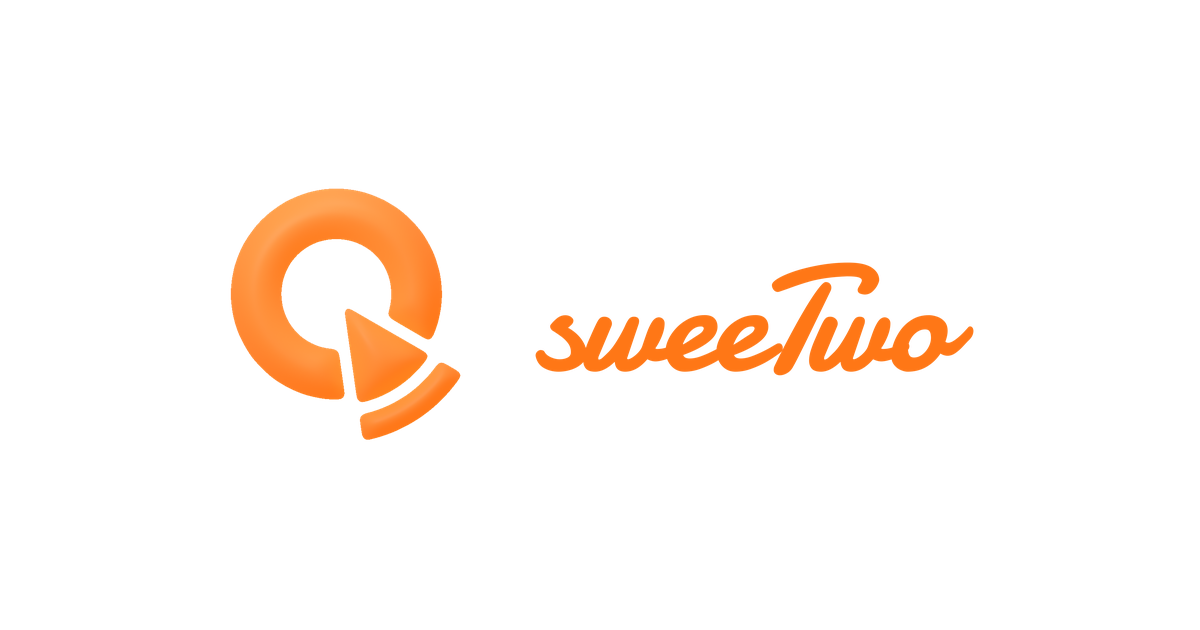
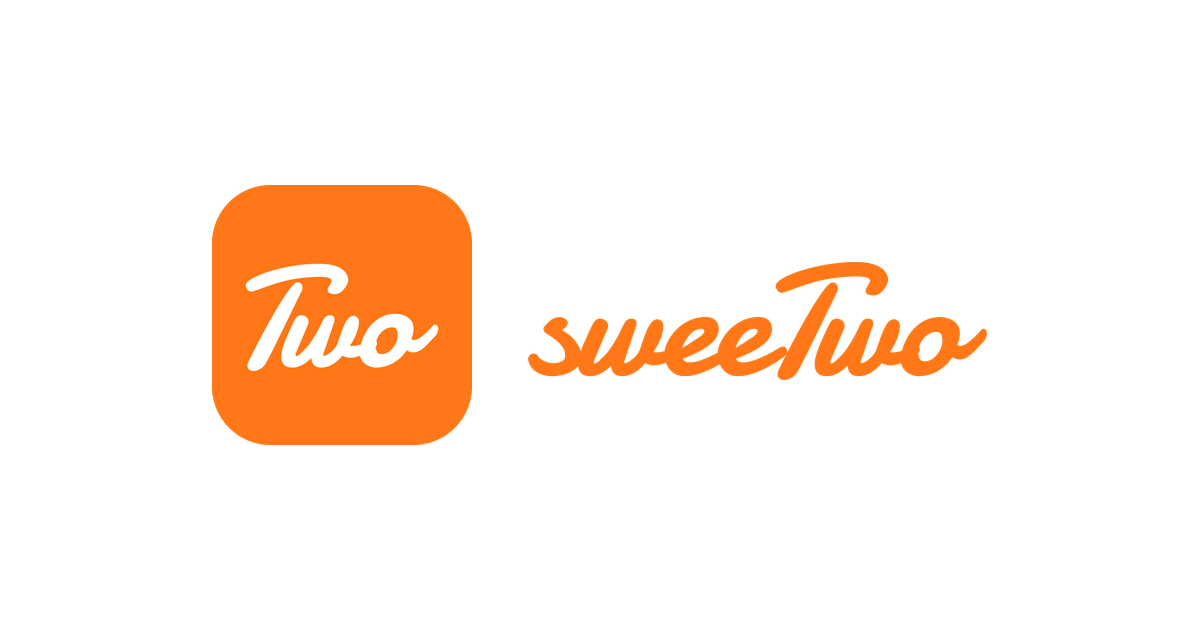
feat(brand): 심볼, 공유 이미지, 랜딩도 ‘Two’로 + 파이 차트 생성기 지움 + spec, design 갱신
- two.py가 symbol.png, symbol.svg, 사이트 og.png도 만듦(오렌지 둥근 사각 Two, og는 아이콘 + 워드마크)
- build.py, geom.py, blender_scene.py 지움
- .cjs 스크립트는 require 허용(eslint)
- docs: spec 04, 28, Brand.md, DESIGN.md, DEV_GUIDE

Claude-Session: https://claude.ai/code/session_011XUPzQwUTy2QBAmKAmrj3h

Changed region(s): [[0.1542, 0.2714, 0.4008, 0.7238], [0.4317, 0.4222, 0.8325, 0.6032]]

diff --git a/scripts/brand-icons/two.py b/scripts/brand-icons/two.py
@@ -1,7 +1,7 @@
 """앱 아이콘 ‘Two’(2026-11-06): 브랜드 오렌지 바탕 + 흰 워드마크 ‘Two’(logo-cherry.svg 뒤 세 글자). 파이 차트 앱 아이콘을 바꿈.
 
 python3 scripts/brand-icons/two.py   (pillow, node + playwright 필요)
-만드는 것: app-icon.png, apple-touch-icon.png, app-icon-macos.png, favicon-32/48.png(디자인 시스템 Brand),
+만드는 것: symbol.png(512, 둥근 사각 앱 아이콘, 모서리 투명)와 symbol.svg(같은 그림 벡터), og.png(공유 이미지), app-icon.png, apple-touch-icon.png, app-icon-macos.png, favicon-32/48.png(디자인 시스템 Brand),
 데스크톱 build/icon.png와 트레이, iOS AppIcon, Android 런처(적응형 전경 + 바탕 색, 예전 방식 정사각·원형), 사이트·모바일 파비콘.
 글자 크기는 아래 FRAC(캔버스 폭 대비 Two 폭). 바꾸면 docs/spec/04-brand.md ‘앱 아이콘’도 같이 고침.
 """
@@ -15,6 +15,7 @@ BRAND = (0xFF, 0x77, 0x16, 255)
 FRAC = 0.74          # 정사각 앱 아이콘 안 Two 폭
 FG_FRAC = 0.48       # Android 적응형 전경(108dp 캔버스, 안전 영역 66dp 원) 안 Two 폭
 MASTER = os.path.join(HERE, 'two-master.png')
+WORDMARK = os.path.join(HERE, 'wordmark-master.png')
 
 def p(*a): return os.path.join(ROOT, *a)
 
@@ -37,8 +38,8 @@ def tile(size, frac=FRAC, bg=BRAND, radius=0):
     return c
 
 def main():
-    if not os.path.exists(MASTER) or '--render' in sys.argv:
-        subprocess.run(['node', os.path.join(HERE, 'render-two.cjs'), MASTER], check=True, cwd=p('apps/mobile'))
+    if not os.path.exists(MASTER) or not os.path.exists(WORDMARK) or '--render' in sys.argv:
+        subprocess.run(['node', os.path.join(HERE, 'render-two.cjs'), MASTER, '--wordmark', WORDMARK], check=True, cwd=p('apps/mobile'))
     icon = tile(1024).convert('RGB')
     icon.save(os.path.join(B, 'app-icon.png'), optimize=True)
     icon.save(p('apps/desktop/build/icon.png'), optimize=True)
@@ -72,5 +73,33 @@ def main():
     open(f'{res}/values/ic_launcher_background.xml', 'w').write(
         '<?xml version="1.0" encoding="utf-8"?>\n<resources>\n    <!-- 앱 아이콘 바탕: 브랜드 오렌지(2026-11-06 ‘Two’ 아이콘) -->\n    <color name="ic_launcher_background">#FF7716</color>\n</resources>\n')
 
+def symbol_svg():
+    # 둥근 사각(모서리 22.5%) 오렌지 + 흰 Two(워드마크 path 그대로). viewBox 1024
+    import re
+    src = open(p('packages/ui/src/assets/brand/logo-cherry.svg')).read()
+    paths = re.findall(r'<path d="([^"]+)"', src)[4:7]
+    m = Image.open(MASTER); bw, bh = m.crop(m.getbbox()).size
+    vb = (3150, -1500, 2850, 1620)   # render-two.cjs와 같은 범위
+    w = 1024 * FRAC; k = w / vb[2] * (Image.open(MASTER).width / bw)  # 글자 실제 폭이 FRAC가 되게
+    gw = vb[2] * k; gh = vb[3] * k
+    x = (1024 - gw) / 2; y = (1024 - gh) / 2 + 10
+    g = ''.join(f'<path d="{d}"/>' for d in paths)
+    return (f'<svg xmlns="http://www.w3.org/2000/svg" viewBox="0 0 1024 1024"><title>sweeTwo</title>'
+            f'<rect width="1024" height="1024" rx="230" fill="#FF7716"/>'
+            f'<g transform="translate({x:.1f} {y:.1f}) scale({k:.5f}) translate({-vb[0]} {-vb[1]})" fill="#fff" stroke="#fff" stroke-width="18" stroke-linejoin="round">{g}</g></svg>')
+
+def extras():
+    tile(512, radius=115).save(os.path.join(B, 'symbol.png'), optimize=True)
+    open(os.path.join(B, 'symbol.svg'), 'w').write(symbol_svg())
+    # 공유 이미지 1200×630: 흰 바탕, 왼쪽 앱 아이콘(둥근 사각 260) + 오른쪽 워드마크
+    og = Image.new('RGBA', (1200, 630), (255, 255, 255, 255))
+    ic = tile(260 * 4, radius=230 * 4 * 260 // 1024).resize((260, 260), Image.LANCZOS)
+    wm = Image.open(WORDMARK).convert('RGBA'); wm = wm.crop(wm.getbbox())
+    wh = 118; wm = wm.resize((round(wm.width * wh / wm.height), wh), Image.LANCZOS)
+    gap = 56; total = 260 + gap + wm.width; x0 = (1200 - total) // 2
+    og.alpha_composite(ic, (x0, (630 - 260) // 2)); og.alpha_composite(wm, (x0 + 260 + gap, (630 - wh) // 2 + 6))
+    og.convert('RGB').save(p('apps/site/public/og.png'), optimize=True)
+
 if __name__ == '__main__':
     main()
+    extras()

diff --git a/docs/spec/04-brand.md b/docs/spec/04-brand.md
@@ -5,7 +5,7 @@
 - **이름**: sweeTwo(스위투). sweet + two, 달콤한 둘. T는 늘 대문자
 - **슬로건**: “둘이 구워서 더 달콤한 자산파이”. 둘이 함께 모은 돈(자산파이)을 둘이 같이 구워 키운 파이의 한 조각이라는 뜻(2026-11-02 ‘함께 구워’에서 바꿈), 상징(파이 차트 조각)과 짝
 - 캐치프레이즈는 ‘둘이 구워서 더 달콤한 자산파이’ 하나만. 새 표어를 만들지 않음
-- **상징**: 파이 차트(원 고리 + 빠져나온 파이 조각)는 심볼(symbol.png, symbol.svg)에만 남음. 앱 아이콘과 파비콘은 2026-11-06부터 오렌지 바탕 흰 워드마크 ‘Two’. 새 심볼은 다시 정함
+- **상징**: 2026-11-06부터 오렌지 바탕 흰 워드마크 ‘Two’(앱 아이콘, 심볼, 파비콘 모두). 파이 차트는 없앰
 
 **한 줄 정의**: 둘이 처음 함께 돈을 모으는 시기를, 다음 할 일 하나씩으로 가볍게 이끌어 주는 부부 돈 코치
 
@@ -35,7 +35,7 @@
 - 목표(goal) 틴트는 따뜻한 모래색: goal 라이트 #F6EEE5 / 다크 #2E2620, 글자 goal-ink #6B4A2B / #E8CFB2. 목표 차트색은 살구 #E3A15F / 다크 #BE8838. 둘 다 브랜드 색과 별개
 - 손실·미달은 경고색 없이. 오류색 danger는 기본 빨강(라이트 #DC2626, 다크 #F87171), 입력 오류·저장 실패에만, 항상 아이콘·문구와 같이
 - 글꼴 SUIT. 작은 아이콘(메뉴, 버튼, 목록, 입력 칸)은 Phosphor 아이콘(MIT 라이선스)의 굵은 둥근 선, 크기 16·20·24. 채운 모양은 현재 선택된 자리에만(사이드바 현재 탭, 켜진 상태). 좁은 창 하단 탭 막대는 네 칸 모두 채운 모양, 고른 칸만 진하게(2026-11-05 토스형). 색은 글자색 그대로(검정, 회색), 체리나 영역색으로 칠하지 않음
-- 목표 그림은 2026-11-04부터 실사 지정 사진(종류마다 1장, 사용자가 직접 올려 바꿈). 나머지 큰 자리 그림(온보딩 결과, 빈 상태, 상태 화면)은 지금 목표 그림과 같은 3D 그림체(심볼은 평면 파이 차트로 바뀌었고 그림체는 그대로): 부드러운 무광 3D, 단순한 둥근 모양, 은은한 그라데이션, 흰 바탕, 색 3\~4가지에 체리색 포인트. 물건 1개. 바탕 지운 PNG. 사람 얼굴, 글자, 로고 없음. 목표 그림 21장, 빈 상태 1장, 장면 그림 5장 모두 이 그림체(힙스필드에서 기존 목표 그림을 그림체 참고로 넣어 생성). 빈 상태 그림은 부스러기만 남은 빈 디저트 접시와 포크 한 장(→ 화면 설계 › 공통 › 공통 상태). 목표 그림 21개(직접 만들기는 회색 기본 그림 goal-custom, 사용자가 사진으로 바꿀 수 있음 → 목표 G-02)는 디자인 시스템 Illustrations 묶음이 정본
+- 목표 그림은 2026-11-04부터 실사 지정 사진(종류마다 1장, 사용자가 직접 올려 바꿈). 나머지 큰 자리 그림(온보딩 결과, 빈 상태, 상태 화면)은 지금 목표 그림과 같은 3D 그림체(심볼은 2026-11-06 평면 ‘Two’로 바뀌었고 그림체는 그대로): 부드러운 무광 3D, 단순한 둥근 모양, 은은한 그라데이션, 흰 바탕, 색 3\~4가지에 체리색 포인트. 물건 1개. 바탕 지운 PNG. 사람 얼굴, 글자, 로고 없음. 목표 그림 21장, 빈 상태 1장, 장면 그림 5장 모두 이 그림체(힙스필드에서 기존 목표 그림을 그림체 참고로 넣어 생성). 빈 상태 그림은 부스러기만 남은 빈 디저트 접시와 포크 한 장(→ 화면 설계 › 공통 › 공통 상태). 목표 그림 21개(직접 만들기는 회색 기본 그림 goal-custom, 사용자가 사진으로 바꿀 수 있음 → 목표 G-02)는 디자인 시스템 Illustrations 묶음이 정본
 - 사람 색(Avatar)은 → 화면 설계 › 공통
 
 **장면 자리 규칙**
@@ -48,7 +48,7 @@
 
 ## 4. 로고·앱 아이콘 규격
 
-워드마크, 상징 그림, 심볼, 앱 아이콘(파이 차트, 2026-10-18 교체) 모두 확정. 파일은 [sweeTwo 디자인 시스템](https://claude.ai/artifact/5KKC9HnqXVWEja5sif5JjF) Brand 묶음의 확정 파일만 사용.
+워드마크, 상징 그림, 심볼, 앱 아이콘(2026-11-06 오렌지 바탕 흰 Two로 교체) 모두 확정. 파일은 [sweeTwo 디자인 시스템](https://claude.ai/artifact/5KKC9HnqXVWEja5sif5JjF) Brand 묶음의 확정 파일만 사용.
 
 **워드마크**
 
@@ -59,18 +59,17 @@
 - T와 w 사이는 다른 글자 사이와 같은 간격
 
 - 체리 타르트 상징 그림(장면 그림·영상)은 없앰(2026-10-19). A-02 로그인 첫 화면 장면 자리에는 영어 워드마크(sweeTwo)를 넣음
-- 앱 아이콘은 오렌지 바탕 흰 ‘Two’(2026-11-06, 아래 ‘앱 아이콘’). 심볼, SNS 공유 이미지, 랜딩(L-01)에는 아직 파이 차트 심볼을 씀
+- 앱 아이콘, 심볼, SNS 공유 이미지, 랜딩(L-01)은 오렌지 바탕 흰 ‘Two’(2026-11-06, 아래 ‘앱 아이콘’)
 
 **앱 아이콘**
 
 - 앱 아이콘(2026-11-06 바꿈): 브랜드 오렌지(`brand` #FF7716) 꽉 찬 바탕 위에 흰 워드마크 ‘Two’(logo-cherry.svg의 뒤 세 글자 T·w·o, 그대로 흰색). 컬리처럼 워드마크 글자를 아이콘으로 씀. Two 폭은 아이콘 폭의 74%, 가운데. Android 적응형 전경은 안전 영역 때문에 폭 48%(바탕은 `ic_launcher_background` #FF7716), 원형 아이콘 66%, 파비콘·트레이는 앱 아이콘과 같은 비율(74%)에 둥근 사각. 모두 `scripts/brand-icons/two.py`가 워드마크 벡터에서 만듦(AI로 다시 그리지 않음). 뜻: 둘(Two)이 함께. 예전 파이 차트 아이콘은 작게 줄이면 알아보기 어려워서 버림(레퍼런스 비교 후, 빗썸·토스·카카오 등 한국 앱 65개)
 - 파일(디자인 시스템 Brand): app-icon.png(1024, 오렌지 바탕 + 흰 Two), app-icon-macos.png(Mac 독용, 824 둥근 사각 + 그림자), favicon-32/48.png, apple-touch-icon.png(180). 데스크톱 build/icon.png, 트레이, iOS AppIcon, Android 런처도 같은 스크립트가 만듦
-- 상태: 확정(2026-11-06 파이 차트에서 ‘Two’로 교체). 심볼(symbol.png, symbol.svg)과 SNS 공유 이미지(og), 랜딩(L-01)의 파이 차트는 아직 그대로, 새 심볼을 정할 때 같이 바꿈. 설치 파일용 .icns와 .ico는 app-icon-macos.png와 app-icon.png로 만듦
+- 상태: 확정(2026-11-06 파이 차트에서 ‘Two’로 교체). 심볼, 공유 이미지(og), 랜딩(L-01)도 같은 날 Two로 바꿈. 설치 파일용 .icns와 .ico는 app-icon-macos.png와 app-icon.png로 만듦
 
 **심볼**
 
-- symbol.svg: 평면 심볼 벡터. PNG(앱 아이콘, 심볼, 파비콘, 공유 이미지)는 모두 `scripts/brand-icons/build.py`가 같은 형상 수치에서 만듦
-- symbol.png: 앱 아이콘과 같은 3D 파이 차트, 바탕 없음 512. 트레이 아이콘, SNS 공유 이미지, 랜딩(L-01) 그림에 씀
+- 심볼(2026-11-06): 앱 아이콘과 같은 오렌지 둥근 사각 + 흰 ‘Two’. symbol.png(512, 모서리 투명), symbol.svg(같은 그림 벡터, 둥근 사각 rx 230/1024). 랜딩(L-01) 첫 화면, 공유 이미지에 씀. 파이 차트는 모두 없앰. 모두 `scripts/brand-icons/two.py`가 만듦
 - 파비콘과 홈 화면에 추가용 아이콘은 앱 아이콘 파일(favicon-32/48.png, apple-touch-icon.png)을 씀
 
 **여백·최소 크기**
@@ -89,7 +88,7 @@
 | 웹 파비콘(웹사이트, 어드민) | favicon-32/48.png(오렌지 둥근 사각 + 흰 Two, 2026-11-06), apple-touch-icon.png 180px(앱 아이콘과 같음) |
 | 모바일 앱 실행 화면(스플래시) | 흰 바탕 가운데 영어 워드마크(logo-cherry, 브랜드 오렌지) 높이 40pt(dp), 다크는 surface 다크 바탕. 다음 화면 A-01 워드마크로 그대로 이어짐. 2026-11-05 심볼 대신 워드마크로 바꿈(심볼은 다시 만드는 중, 앱 아이콘에 씀)(→ 개발 가이드 ‘모바일 출시’) |
 | 메일 머리 로고 | 워드마크 브랜드 오렌지(brand), 2배 PNG |
-| 소셜 공유 이미지 | 1200×630. 흰 바탕에 워드마크 + 심볼(symbol.png, 파이 차트), 웹사이트 모든 페이지 공유용(→ 화면 설계 › 웹사이트) |
+| 소셜 공유 이미지 | 1200×630. 흰 바탕에 왼쪽 앱 아이콘(둥근 사각 Two) + 오른쪽 워드마크(2026-11-06, two.py가 만듦), 웹사이트 모든 페이지 공유용(→ 화면 설계 › 웹사이트) |
 | SNS 프로필 | 앱 아이콘(오렌지 바탕 흰 Two, app-icon.png) |
 | 카카오·구글·애플 로그인 앱 로고 | 앱 아이콘(오렌지 바탕 흰 Two, app-icon.png, 2026-11-06 콘솔에서도 바꿔야 함). 각 OAuth 콘솔 요구 규격 |
 

diff --git a/docs/design/assets/Brand.md b/docs/design/assets/Brand.md
@@ -1,18 +1,17 @@
 # Brand
 
-브랜드 이름은 sweeTwo(스위투). 워드마크는 둥근 붓 필기체 “sweeTwo”. 앱 아이콘과 파비콘은 브랜드 오렌지 바탕에 흰 워드마크 ‘Two’(2026-11-06). 파이 차트(원 고리 + 빠져나온 파이 조각)는 심볼(symbol.png, symbol.svg)에만 남았고 새 심볼은 다시 정함.
+브랜드 이름은 sweeTwo(스위투). 워드마크는 둥근 붓 필기체 “sweeTwo”. 앱 아이콘과 파비콘은 브랜드 오렌지 바탕에 흰 워드마크 ‘Two’(2026-11-06). 심볼도 같은 그림(파이 차트는 없앰).
 
 - `logo-cherry.svg`: 워드마크 기본(`brand` #FF7716, 심볼 원 고리 색). 흰 바탕과 다크 바탕 모두. T와 w 사이는 다른 글자 사이와 같은 간격.
 - `logo-white.svg`: 오렌지 바탕이나 사진 위.
 - `logo-black.svg`: 한 가지 색만 되는 인쇄물.
-- 앱 아이콘 그림: 앱 아이콘(2026-11-06 바꿈): 브랜드 오렌지(`brand` #FF7716) 꽉 찬 바탕 위에 흰 워드마크 ‘Two’(logo-cherry.svg의 뒤 세 글자 T·w·o, 그대로 흰색). 컬리처럼 워드마크 글자를 아이콘으로 씀. Two 폭은 아이콘 폭의 74%, 가운데. Android 적응형 전경은 안전 영역 때문에 폭 48%(바탕은 `ic_launcher_background` #FF7716), 원형 아이콘 66%, 파비콘·트레이는 앱 아이콘과 같은 비율(74%)에 둥근 사각. 모두 `scripts/brand-icons/two.py`가 워드마크 벡터에서 만듦(AI로 다시 그리지 않음). 뜻: 둘(Two)이 함께. 예전 파이 차트 아이콘은 작게 줄이면 알아보기 어려워서 버림(레퍼런스 비교 후, 빗썸·토스·카카오 등 한국 앱 65개)
+- 앱 아이콘 그림(2026-11-06 바꿈): 브랜드 오렌지(`brand` #FF7716) 꽉 찬 바탕 위에 흰 워드마크 ‘Two’(logo-cherry.svg의 뒤 세 글자 T·w·o, 그대로 흰색). 컬리처럼 워드마크 글자를 아이콘으로 씀. Two 폭은 아이콘 폭의 74%, 가운데. Android 적응형 전경은 안전 영역 때문에 폭 48%(바탕은 `ic_launcher_background` #FF7716), 원형 아이콘 66%, 파비콘·트레이는 앱 아이콘과 같은 비율(74%)에 둥근 사각. 모두 `scripts/brand-icons/two.py`가 워드마크 벡터에서 만듦(AI로 다시 그리지 않음). 뜻: 둘(Two)이 함께. 예전 파이 차트 아이콘은 작게 줄이면 알아보기 어려워서 버림(레퍼런스 비교 후, 빗썸·토스·카카오 등 한국 앱 65개)
 - `app-icon.png`: 앱 아이콘 원본(1024px, 꽉 찬 정사각형, 오렌지 바탕 흰 Two). iOS·Android는 이 파일을 줄여서 씀. 모서리는 각 OS가 깎음.
 - `app-icon-macos.png`: Mac 독용(1024px). Mac은 모서리를 깎아 주지 않아 둥근 사각형(824px), 여백, 그림자를 파일에 넣음.
-- `symbol.svg`: 평면 심볼 벡터(한 색 #FF7716, 호 3개). 형상 원본은 `scripts/brand-icons/geom.py`의 수치.
-- `symbol.png`: 3D 심볼(파이 차트, 바탕 없음 512px). SNS 공유 이미지, 랜딩에 아직 씀(트레이는 2026-11-06부터 앱 아이콘을 줄여 씀). 새 심볼을 정하면 바꿈.
+- `symbol.svg`, `symbol.png`: 심볼(2026-11-06): 앱 아이콘과 같은 오렌지 둥근 사각 + 흰 ‘Two’. symbol.png(512, 모서리 투명), symbol.svg(같은 그림 벡터, 둥근 사각 rx 230/1024). 랜딩(L-01) 첫 화면, 공유 이미지에 씀. 파이 차트는 모두 없앰.
 - `favicon-32.png`, `favicon-48.png`: 브라우저 탭 아이콘(오렌지 둥근 사각 + 흰 Two, 2026-11-06). `apple-touch-icon.png`: 홈 화면에 추가할 때(180px, 앱 아이콘과 같음).
 - 체리 타르트 그림(장면 그림·영상)은 모두 없앰(2026-10-19). O-01 시작·A-02 로그인 첫 화면 장면 자리에는 영어 워드마크(`Wordmark`, 높이 40px) + 캐치프레이즈 한 줄(20px 700) + 회색 보조 2줄을 세로 가운데에 둔다(2026-11-02, 당근 시작 화면처럼).
 - 화면 안 로고는 `hg-wordmark`(마스크, `brand` 칠, 기본 높이 24px, 큰 자리와 로그인 첫 화면 히어로 40px, 트레이 20px).
-- 금지: 다시 그리기, 늘이기, 기울이기, 색 바꾸기(워드마크는 브랜드 오렌지, 흰색, 검정만), 워드마크와 평면 심볼에 그림자, 외곽선. 파이 조각에 장식(점, 구멍, 별) 더하기. 브랜드 색 말고 다른 색 넣기.
+- 금지: 다시 그리기, 늘이기, 기울이기, 색 바꾸기(워드마크는 브랜드 오렌지, 흰색, 검정만), 워드마크와 평면 심볼에 그림자, 외곽선. Two 글자 모양 바꾸기(워드마크 그대로). 브랜드 색 말고 다른 색 넣기.
 - 여백: 로고 높이의 1/2 이상. 최소 높이 워드마크 16px, 심볼 16px.
 - 상태: 앱 아이콘 2026-11-06 ‘Two’로 바꿈(이전: 2026-10-13 확정, 2026-10-25 브랜드 오렌지 한 색, 틈 2배·크러스트 1.4배, 앱 아이콘 계열은 무광 3D로 바꿈). 설치 파일용 .icns/.ico와 macOS 트레이 템플릿(한 색 실루엣)은 개발할 때 만듦.

diff --git a/docs/DEV_GUIDE.md b/docs/DEV_GUIDE.md
@@ -496,7 +496,7 @@ Worker 3개(대시보드 → Workers & Pages → Create → Import a repository 
 ### 그림과 장면 자리
 
 - 목표 사진 21장(2026-11-04 실사, `assets/goal-photos/{템플릿}-01.webp`, 정사각 512px), 빈 상태 그림 1장: Illustrations 묶음, 배경을 지운 512px. 앱에는 webp(투명, 품질 90)로 넣음(`packages/ui/src/assets/illustrations`). 디자인 시스템 원본은 PNG. 모두 같은 무광 3D 그림체(심볼은 평면 파이 차트라 그림체가 다름). `object-fit: contain`
-- 앱 아이콘(2026-11-06 오렌지 바탕 흰 워드마크 ‘Two’로 교체): `python3 scripts/brand-icons/two.py`가 워드마크 벡터(logo-cherry.svg 뒤 세 글자)에서 app-icon.png, app-icon-macos.png, apple-touch-icon.png, favicon-32/48.png, 데스크톱 build/icon.png와 resources/tray.png, iOS AppIcon, Android 런처(적응형 전경 48% + 바탕 #FF7716, 예전 방식 정사각·원형), 사이트·모바일 파비콘을 다시 만듦(node + playwright로 흰 Two 원본 two-master.png를 그림, `--render`면 다시). 카카오·구글 로그인 콘솔 앱 아이콘은 손으로 바꿈. symbol.png(파이 차트)와 og는 build.py 그대로
+- 앱 아이콘(2026-11-06 오렌지 바탕 흰 워드마크 ‘Two’로 교체): `python3 scripts/brand-icons/two.py`가 워드마크 벡터(logo-cherry.svg 뒤 세 글자)에서 app-icon.png, app-icon-macos.png, apple-touch-icon.png, favicon-32/48.png, 데스크톱 build/icon.png와 resources/tray.png, iOS AppIcon, Android 런처(적응형 전경 48% + 바탕 #FF7716, 예전 방식 정사각·원형), 사이트·모바일 파비콘을 다시 만듦(node + playwright로 흰 Two 원본 two-master.png를 그림, `--render`면 다시). symbol.png·symbol.svg, 사이트 공유 이미지 og.png도 같이 만듦. 카카오·구글 로그인 콘솔 앱 아이콘은 손으로 바꿈. 예전 파이 차트 생성기(build.py, Blender)는 지움
 - 장면 그림 5장과 장면 영상 5개는 없앰(2026-10-19). W-04, P-11, P-01, H-T1, A-02의 장면 자리는 그림 없이 비워 둠
 - 그림은 앱에 포함해 배포(네트워크 없이도 보이게). 데스크톱·모바일 모두 앱 묶음 안에
 

diff --git a/docs/spec/28-website.md b/docs/spec/28-website.md
@@ -49,7 +49,7 @@
 **구현**
 
 - Astro 정적 사이트(확정), 저장소 apps/site, Cloudflare Workers 정적 자산(ADR 0002) → 기술·운영 1장
-- 공유 이미지 1200×630(흰 바탕, 워드마크 + 심볼 symbol.png(파이 차트)) → 브랜드 4장
+- 공유 이미지 1200×630(흰 바탕, 왼쪽 앱 아이콘(오렌지 둥근 사각 Two) + 오른쪽 워드마크, 2026-11-06) → 브랜드 4장
 
 ## L-01 랜딩 (/)
 
